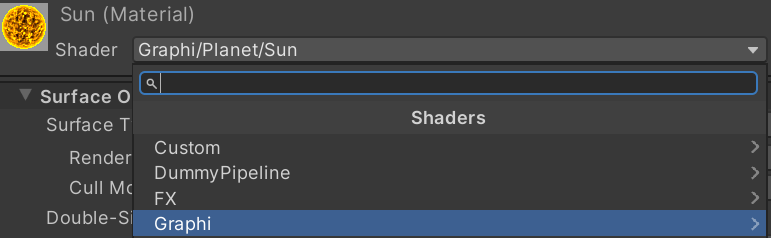
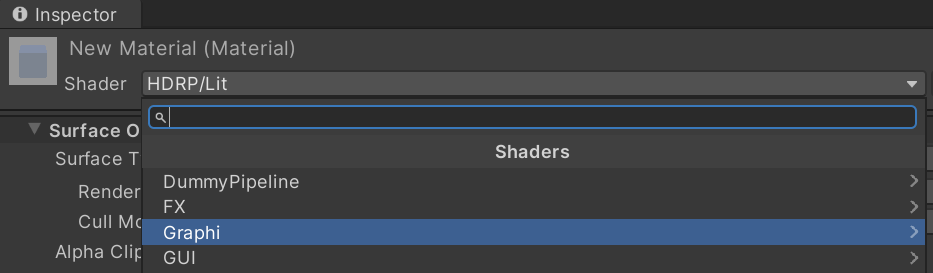
修改帮助文档

Changed region(s): [[0.0, 0.0, 1.0, 1.0], [0.965, 0.1765, 0.9961, 0.2353]]

diff --git a/Documentation/graphi_rendering_hdrp.md b/Documentation/graphi_rendering_hdrp.md
@@ -23,7 +23,7 @@
 
 > ![](images/doc1.png)
 
-> 此时会弹出 Project Settings 检视板中的 Graphi 页签。在页签中，点击 ***Set*** 按钮，执行着色库与当前工程进行适配。
+> 此时会弹出 ***Project Settings*** 检视板中的 ***Graphi Rendering HDRP*** 页签。在页签中，点击 ***Set*** 按钮，使着色库与当前工程进行适配。
 
 > ![](images/doc3.png)
 
@@ -34,12 +34,24 @@
 ## 操作项
 着色库所有操作项都被包含在 Unity 的菜单栏中。
 
-> Shader : 着色器
->> 1. 在材质中，可动态设置选择的着色器都在 Graphi 路径下。
+> **Hierarchy**
+
+>> 层次结构中需要创建的游戏对象，都绑定在 GameObject 菜单项中。例如：GameObject/Volume/OccDisplay Volume（创建遮挡显示体积组件）。在 GameObject 支持创建的游戏可通过 ***HierarchyUtils.cs*** 脚本查看。
+
+> **Project**
+
+>> Project工程面板中可创建的资源对象都绑定在 Assets/Create 菜单项中。例如：Assets/Create/Shader/HLSL（创建 HLSL 着色文件）。所有资源对象创建的脚本可在 ***Editor/Shader*** 目录下找到。
+
+> **Shader**
+>> 1. 在材质中，可动态设置选择的着色器都在 ***Graphi*** 路径下。
 >> ![](images/doc5.png)
->> 2. 在 ShaderGraph 操作面板中，着色库也提供了特定的 ShaderGraph Node 节点。所有自定义节点也都在 Graphi 页签下。
+>> 2. 在 ***ShaderGraph*** 操作面板中，着色库也提供了特定的 ***ShaderGraph Node*** 节点。所有自定义节点也都在 ***Graphi*** 页签下。
 >> ![](images/doc6.png)
->> 3. 后处理（PostProcess）及全屏处理（FullScreen）的着色器全部绑定在体积（Volume）组件内。
+>> 3. 后处理（PostProcess）、全屏处理（FullScreen）、天空盒（Sky）等着色器全部绑定在体积（Volume）组件内。
+
+> **Component**
+
+>> 着色库提供了一些组件，其中部分组件是需要配合同名着色器一起使用（例如：Runtime/Components/Shield.cs 组件需要与 Graphi/Fx/Shield 着色器一起使用）。这些组件可在 ***Runtime/Components*** 目录下找到。
 
 
 ## 其他
